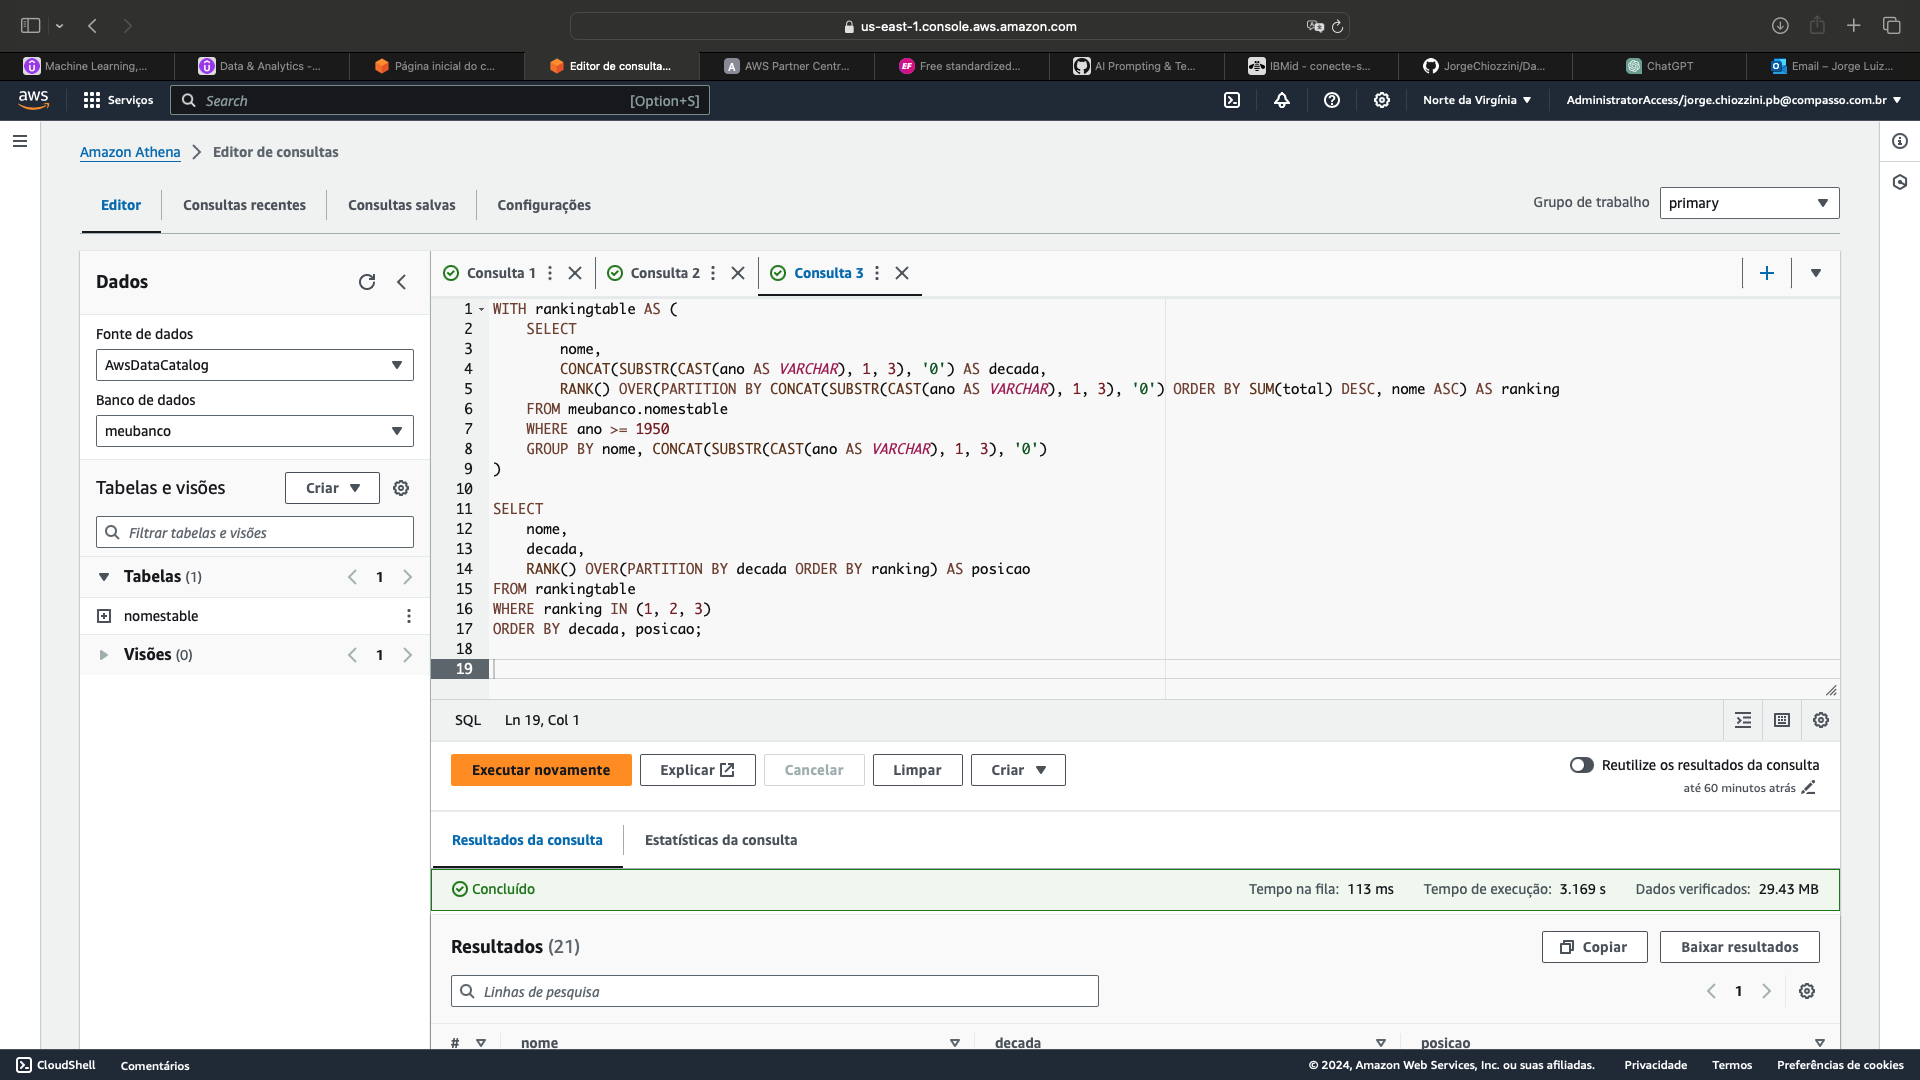
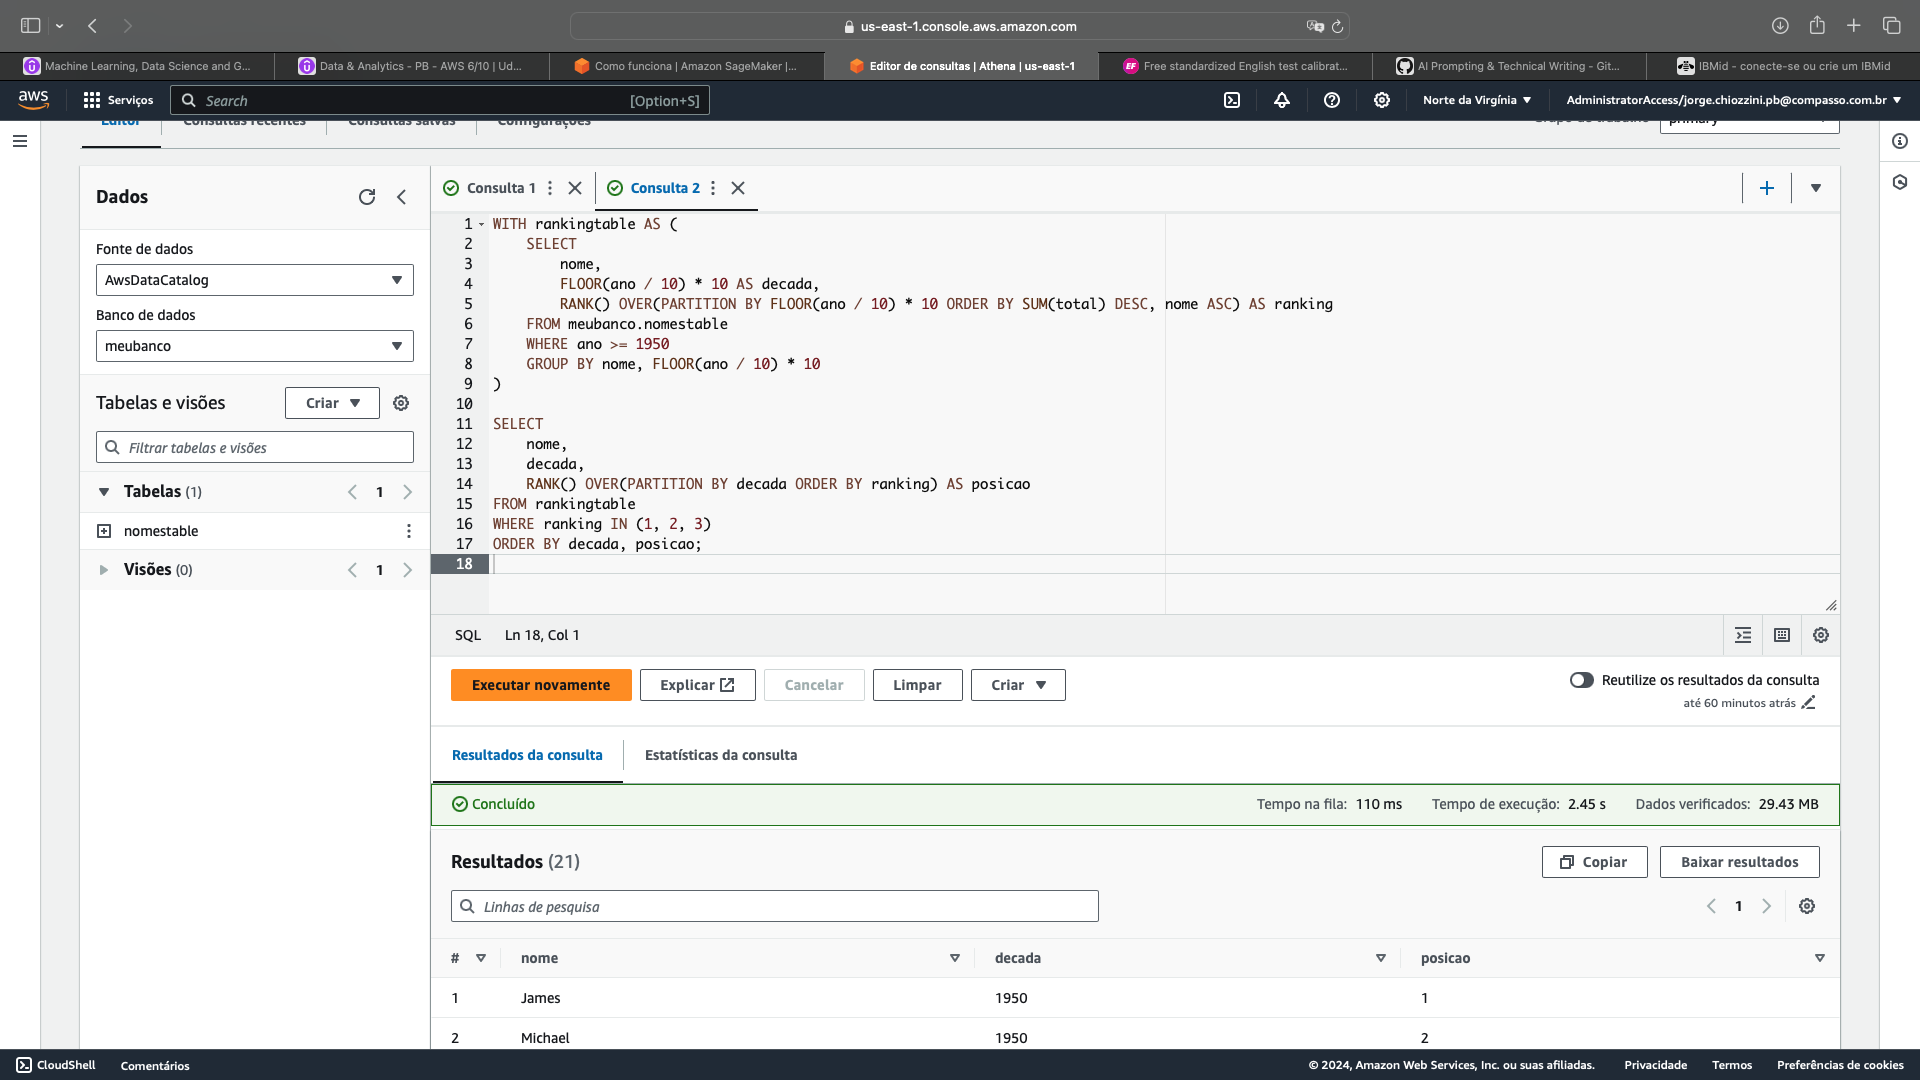
ajuste lab sprint 6

diff --git a/Sprint 6/README.md b/Sprint 6/README.md
@@ -64,11 +64,11 @@ Código:
 WITH rankingtable AS (
     SELECT
         nome, 
-        CONCAT(SUBSTR(CAST(ano AS VARCHAR), 1, 3), '0') AS decada, 
-        RANK() OVER(PARTITION BY CONCAT(SUBSTR(CAST(ano AS VARCHAR), 1, 3), '0') ORDER BY SUM(total) DESC, nome ASC) AS ranking 
+        FLOOR(ano / 10) * 10 AS decada, 
+        RANK() OVER(PARTITION BY FLOOR(ano / 10) * 10 ORDER BY SUM(total) DESC, nome ASC) AS ranking 
     FROM meubanco.nomestable
     WHERE ano >= 1950
-    GROUP BY nome, CONCAT(SUBSTR(CAST(ano AS VARCHAR), 1, 3), '0') 
+    GROUP BY nome, FLOOR(ano / 10) * 10
 )
 
 SELECT 
@@ -78,6 +78,7 @@ SELECT
 FROM rankingtable 
 WHERE ranking IN (1, 2, 3) 
 ORDER BY decada, posicao;
+
 ```
 
 <img src="exercicios/query.png" alt="Texto Alternativo" width="800">
